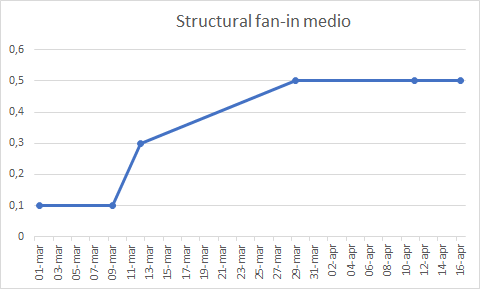
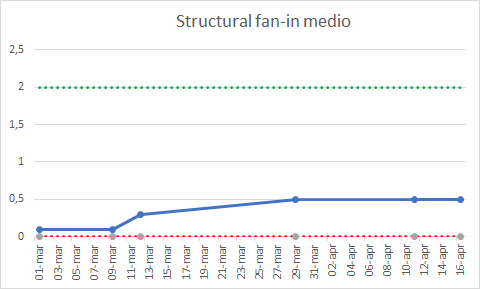
[PdQ] aggiunti range di accettazione ai grafici

diff --git a/RQ/PianoDiQualifica/Res/Sezioni/QualitaDiProcesso.tex b/RQ/PianoDiQualifica/Res/Sezioni/QualitaDiProcesso.tex
@@ -129,6 +129,7 @@ SWEefty terrà sotto costante controllo tutti i rischi individuati, come specifi
 		\item \textbf{Range accettato: }0 - 4.
 	\end{itemize}
     \subparagraph{Misurazioni}
+    nonostante qualche ritardo nella stesura della \textit{Product Baseline} il gruppo è riuscito a recuperare e a consegnare tutti i documenti nei tempi previsti. 
     \begin{figure}[H]
     	\centering 
     	\includegraphics[width=0.7\textwidth]{Images/rischiNI.png}
@@ -153,12 +154,14 @@ I requisiti vengono tracciati utilizzando lo strumento SWEgo.
 	\item \textbf{Range accettato:} 100\%.
 \end{itemize}
 \subparagraph{Misurazioni}
+Il gruppo in entrata alla \emph{Revisione di Qualifica} è riuscito a soddisfare quasi tutti i requisiti obbligatori previsti dal documento \textit{Analisi dei Requisiti v 2.0.0}.
 \begin{figure}[H]
 	\centering 
 	\includegraphics[width=0.7\textwidth]{Images/obbl.png}
 	\caption{Serie storica dei requisiti obbligatori soddisfatti}
 	\label{obbl} 
 \end{figure}
+
 
 \subsection{System architectural design process}
 Lo scopo di questo processo è quello di associare ai requisiti del sistema una o più componenti del sistema.
@@ -177,6 +180,7 @@ Lo scopo di questo processo è quello di associare ai requisiti del sistema una 
 				\item \textbf{Range accettato:} $\geq 0$.
 			\end{itemize}
 		    \subparagraph{Misurazioni}
+		    Questo indice va massimizzato, visto però il numero limitato di componenti è difficile ottenere un valore alto.
 		    \begin{figure}[H]
 		    	\centering 
 		    	\includegraphics[width=0.7\textwidth]{Images/SFIN.png}
@@ -189,12 +193,14 @@ Lo scopo di questo processo è quello di associare ai requisiti del sistema una 
 				\item \textbf{Range accettato:} 0-5.
 			\end{itemize}
 		    \subparagraph{Misurazioni}
+		     Questo indice va minimizzato, il gruppo è sempre riuscito a mantenere il suo valore nel range ottimale.
 		    \begin{figure}[H]
 		    	\centering 
 		    	\includegraphics[width=0.7\textwidth]{Images/SFOUT.png}
 		    	\caption{Serie storica del Structural fan-out}
 		    	\label{SFOUT} 
 		    \end{figure}
+	       
             
 
 \subsection{System detailed design process}
@@ -212,18 +218,21 @@ Lo scopo del processo è fornire una progettazione di dettaglio del prodotto che
 				\item \textbf{Range accettato:} 1-10.
 			\end{itemize}
 		    \subparagraph{Misurazioni}
+		    il gruppo è sempre riuscito a mantenere questo valore nel range ottimale grazie alla progettazione di classi non troppo complesse.
 		    \begin{figure}[H]
 		    	\centering 
 		    	\includegraphics[width=0.7\textwidth]{Images/metodi.png}
 		    	\caption{Serie storica dei metodi per classe medio}
 		    	\label{metodi} 
 		    \end{figure}
+	        
 			\paragraph{Parametri per metodo} \Spazio
 			\begin{itemize}
 				\item \textbf{Range ottimale:} 0-4;
 				\item \textbf{Range accettato:} 0-8.
 			\end{itemize}
 		    \subparagraph{Misurazioni}
+		    I metodi che sono stati creati non superano i tre parametri perciò il risultato medio è sempre stato nel range ottimale.
 		    \begin{figure}[H]
 		    	\centering 
 		    	\includegraphics[width=0.7\textwidth]{Images/parametri.png}
@@ -249,24 +258,28 @@ Lo scopo del processo è fornire una progettazione di dettaglio del prodotto che
 				\item \textbf{Range accettato:} 1-15.
 			\end{itemize}
 		    \subparagraph{Misurazioni}
+		    Dopo una iniziale fuoriuscita dal range di accettazione dovuto alla scarsa conoscenza di Kibana il gruppo è riuscito a riportare questo valore nel range ottimale.
 		    \begin{figure}[H]
 		    	\centering 
 		    	\includegraphics[width=0.7\textwidth]{Images/ciclo.png}
 		    	\caption{Serie storica della complessità ciclomatica media}
 		    	\label{ciclo} 
 		    \end{figure}
+	        
 			\paragraph{Linee di codice per linee di commento} \Spazio
 			\begin{itemize}
 				\item \textbf{Range ottimale:} $\geq30$;
 				\item \textbf{Range accettato:} $\geq25$.
 			\end{itemize}
 		    \subparagraph{Misurazioni}
+		     Dopo una iniziale carenza di linee di commento il gruppo si è impegnato per portare questo valore in un range accettabile.
 		    \begin{figure}[H]
 		   	\centering 
 		    	\includegraphics[width=0.7\textwidth]{Images/comm.png}
 		    	\caption{Serie storica delle linee di codice per linee di commento}
 		    	\label{comm} 
 		    \end{figure}
+	        
 			\paragraph{Halstead difficulty per-function} \Spazio
 			\begin{itemize}
 				\item \textbf{Range ottimale:} 0-15;
@@ -334,12 +347,14 @@ Lo scopo del processo è fornire una progettazione di dettaglio del prodotto che
 				\item \textbf{Range accettato:} 40-100.
 			\end{itemize}
             \subparagraph{Misurazioni}
+            Il gruppo è sempre riuscito a mantenere questo indice all'interno del range ottimale.
             \begin{figure}[H]
             	\centering 
             	\includegraphics[width=0.7\textwidth]{Images/Gulpease.png}
             	\caption{Serie storica dell'indice di gulpease medio}
             	\label{gul} 
             \end{figure}
+            
 	\subsection{Software verification process}
 	Lo scopo del processo è di verificare che tutte le componenti del sistema soddisfino completamente i requisiti ad esse correlate.
 		\subsubsection{Obiettivi}
@@ -356,7 +371,9 @@ Lo scopo del processo è fornire una progettazione di dettaglio del prodotto che
 				\item \textbf{Range ottimale:} 70\%-100\%;
 				\item \textbf{Range accettato:} 50\%-100\%.
 		    \end{itemize}
+	        
 	        \subparagraph{Misurazioni}
+	        I test dinamici in questo momento percorrono la maggior parte dei rami decisionali presenti. 
 	        \begin{figure}[H]
 	        	\centering 
 	        	\includegraphics[width=0.7\textwidth]{Images/branch.png}
@@ -369,9 +386,11 @@ Lo scopo del processo è fornire una progettazione di dettaglio del prodotto che
 					\item \textbf{Range accettato:} 50\%-100\%.
 		    	\end{itemize}
 	    	    \subparagraph{Misurazioni}
+	    	    La maggior parte del codice viene eseguito dai test dinamici presenti.
 	    	    \begin{figure}[H]
 	    	    	\centering 
 	    	    	\includegraphics[width=0.7\textwidth]{Images/statement.png}
 	    	    	\caption{Serie storica dello statement coverage}
 	    	    	\label{statement} 
 	    	    \end{figure}
+    	        

diff --git a/RQ/PianoDiQualifica/Res/Sezioni/QualitaDiProdotto.tex b/RQ/PianoDiQualifica/Res/Sezioni/QualitaDiProdotto.tex
@@ -16,12 +16,14 @@ Per quantificare e valutare la qualità del prodotto software il gruppo \textit{
 				\item {\textbf{Range accettazione:} 100.}
 			\end{itemize} 
             \subparagraph{Misurazioni}
+            Il gruppo ha raggiunto una buona copertura dei requisiti funzionali già in entrata alla \emph{Revisione di Qualifica}.
             \begin{figure}[H]
             	\centering 
             	\includegraphics[width=0.7\textwidth]{Images/completezza-funzionale.png}
             	\caption{Serie storica della completezza dell'implementazione funzionale}
             	\label{cf} 
             \end{figure}
+             
 	\subsection{Reliability}
 		Con reliability si intende il livello di performance mantenuto da specifiche funzioni di un prodotto in specifiche condizione per uno specifico periodo di tempo.
 		\subsubsection{Obiettivi}
@@ -36,12 +38,14 @@ Per quantificare e valutare la qualità del prodotto software il gruppo \textit{
 				\item {\textbf{Range accettazione:} 0-10.}
 			\end{itemize}
 		      \subparagraph{Misurazioni}
+		       Inizialmente la percentuale di test falliti era abbastanza alta ma il gruppo è riuscito a portare questo valore in un range accettabile.
 		     \begin{figure}[H]
 		     	\centering 
 		     	\includegraphics[width=0.7\textwidth]{Images/fail.png}
 		     	\caption{Serie storica della densità di failure}
 		     	\label{fail} 
 		     \end{figure} 
+	        
 			
 	\subsection{Usability}
 		Con usability si intende il livello a cui il prodotto può essere utilizzato da degli utenti specifici per raggiungere specifici obiettivi con efficacia, efficienza e soddisfazione in uno specifico contesto d'uso.  
@@ -59,24 +63,28 @@ Per quantificare e valutare la qualità del prodotto software il gruppo \textit{
 				\item {\textbf{Range accettazione:} 70-100.}
 			\end{itemize} 
 		   \subparagraph{Misurazioni}
+		   Questo valore è quasi sempre rimasto in un range ottimale visto che il nostro prodotto è di natura semplice e intuitivo.
 		    \begin{figure}[H]
 		   	\centering 
 		    	\includegraphics[width=0.7\textwidth]{Images/compr.png}
 		    	\caption{Serie storica della Comprensibilità delle funzionalità offerte}
 		    	\label{compr} 
 		    \end{figure}
+	        
 			\paragraph{Facilità di apprendimento} \Spazio 
 			\begin{itemize}
 				\item {\textbf{Range ottimale:} 0-10;}
 				\item {\textbf{Range accettazione:} 0-20.}
 			\end{itemize} 
 			 \subparagraph{Misurazioni}
+			 Questo valore è aumentato con l'aumentare della complessità del prodotto ma è sempre rimasto sempre nel range ottimale.
 			\begin{figure}[H]
 				\centering 
 				\includegraphics[width=0.7\textwidth]{Images/fac.png}
 				\caption{Serie storica della facilità di apprendimento}
 				\label{fac} 
 			\end{figure}
+		    
 	\subsection{Performance efficency}
 		Con performance efficiency si intende il livello di performance relativo all'ammontare di risorse usate sotto determinate condizioni. 
 		\subsubsection{Obiettivi}
@@ -91,12 +99,14 @@ Per quantificare e valutare la qualità del prodotto software il gruppo \textit{
 				\item {\textbf{Range accettazione:} 0-8.}
 			\end{itemize} 
 		     \subparagraph{Misurazioni}
+		      Il tempo di risposta non è mai fuoriuscito dal range ottimale ma potrebbe nel caso in cui la connessione utilizzata sia lenta.
 		      \begin{figure}[H]
 		      \centering 
 		      \includegraphics[width=0.7\textwidth]{Images/risposta.png}
 		    	\caption{Serie storica del tempo di risposta medio}
 		    	\label{risposta} 
 		    \end{figure}
+	       
 			
 	\subsection{Maintainability}
 		Con maintainability si intende il livello di efficacia e di efficienza con cui un prodotto può essere modificato dai manutentori incaricati.
@@ -113,21 +123,25 @@ Per quantificare e valutare la qualità del prodotto software il gruppo \textit{
 				\item {\textbf{Range accettazione:} 60-100.}
 			\end{itemize} 
 		     \subparagraph{Misurazioni}
+		     Il gruppo è stato in grado di trovare la maggior parte degli errori che portavano al fallimento di un test.
 		    \begin{figure}[H]
 		    	\centering 
 		    	\includegraphics[width=0.7\textwidth]{Images/cap.png}
 		    	\caption{Serie storica della capacità di analisi failure}
 		    	\label{cap} 
 		    \end{figure}
+	        
 			\paragraph{Impatto delle modifiche} \Spazio
 			\begin{itemize}
 				\item {\textbf{Range ottimale:} 0-10;}
 				\item {\textbf{Range accettazione:} 0-20.}
 			\end{itemize} 
 		 \subparagraph{Misurazioni}
+		 All'aumentare della complessità del codice questo valore è aumentato ma è sempre rimasto in un range accettabile.
 		\begin{figure}[H]
 			\centering 
 			\includegraphics[width=0.7\textwidth]{Images/modifiche.png}
 			\caption{Serie storica dell'impatto delle modifiche}
 			\label{modifiche} 
 		\end{figure}
+	    
